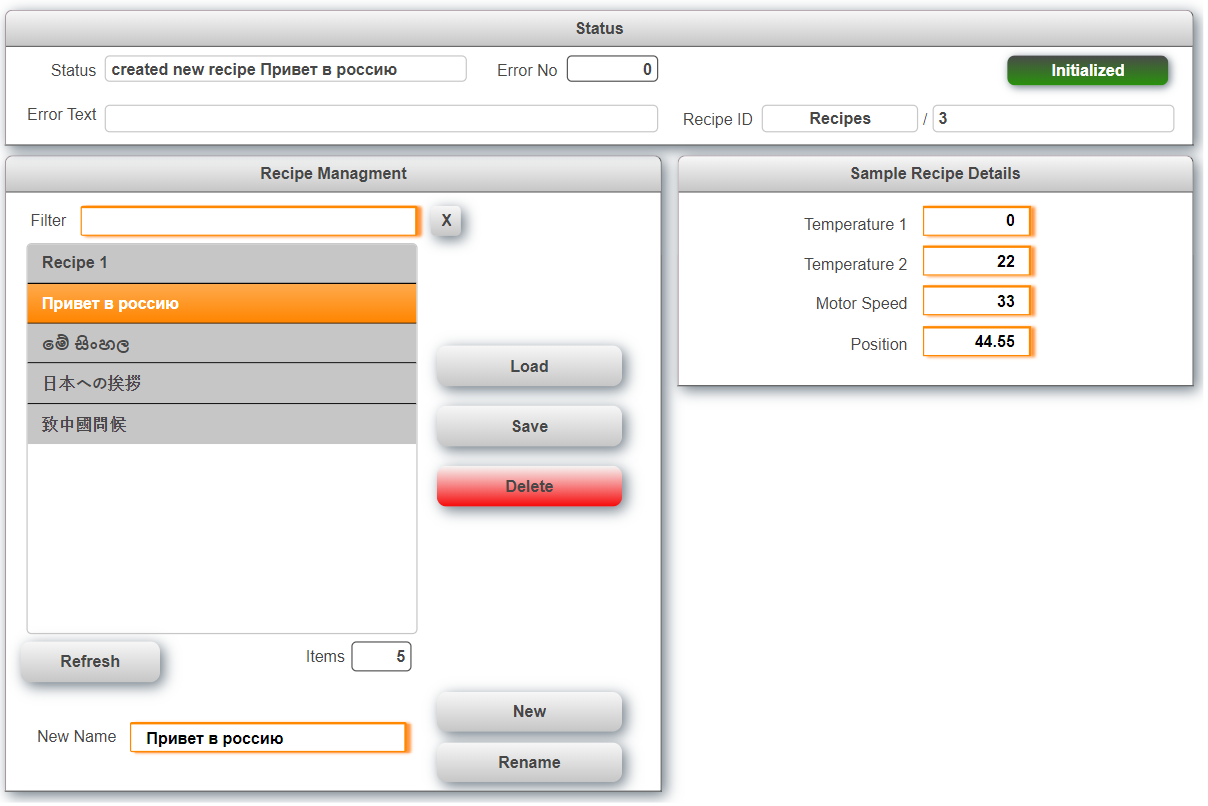
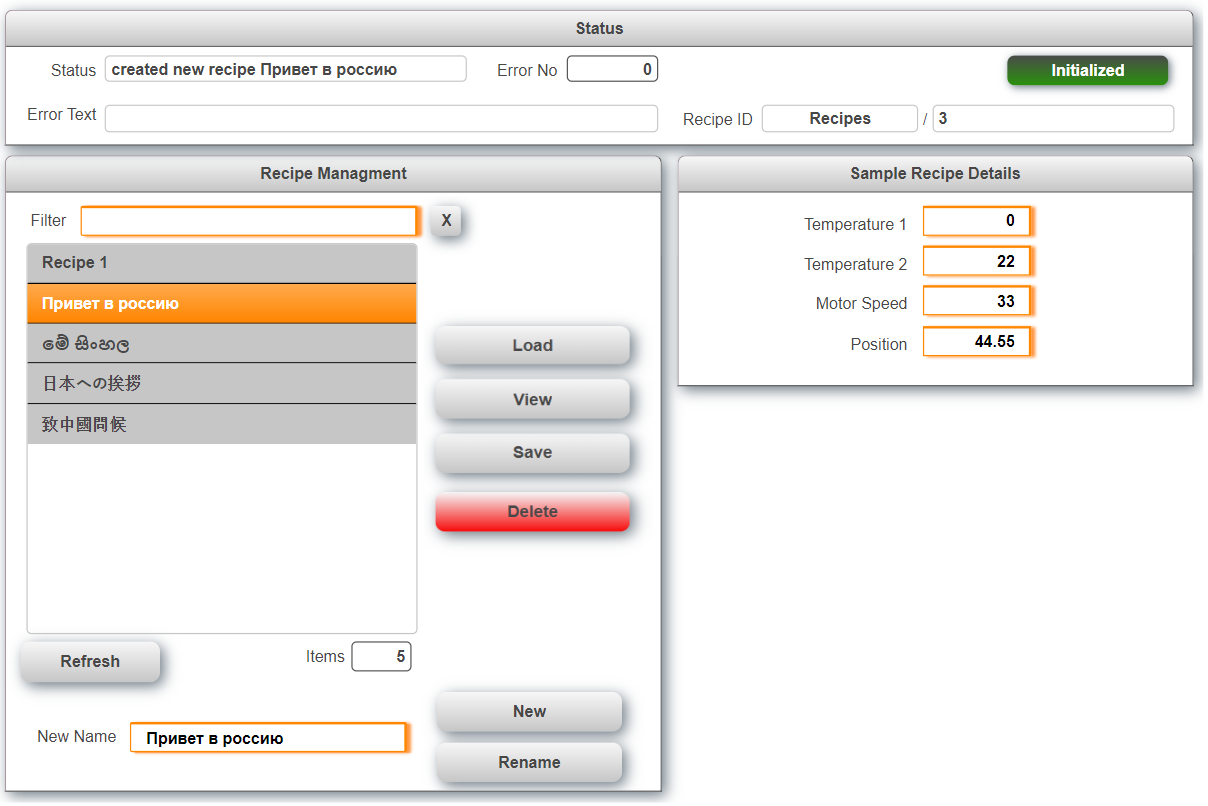
Added function to view files by double click or command

Changed region(s): [[0.3369, 0.4032, 0.5513, 0.6824]]

diff --git a/README.md b/README.md
@@ -23,8 +23,7 @@ Recommended task class is #8 with a 10ms cycle time.
 <a name="Revision-History"></a>
 ## Revision History
 
-#### Version 0.2
-- Added message box before saving or deleting a recipe 
-- Fixed filter compare too short 
-- Added exit function 
-- Code cleanup 
+#### Version 0.3
+- Added categories to mapp function blocks to seperate recipe data
+- Added function to view files by double click or command
+- Removed obsolete constants
